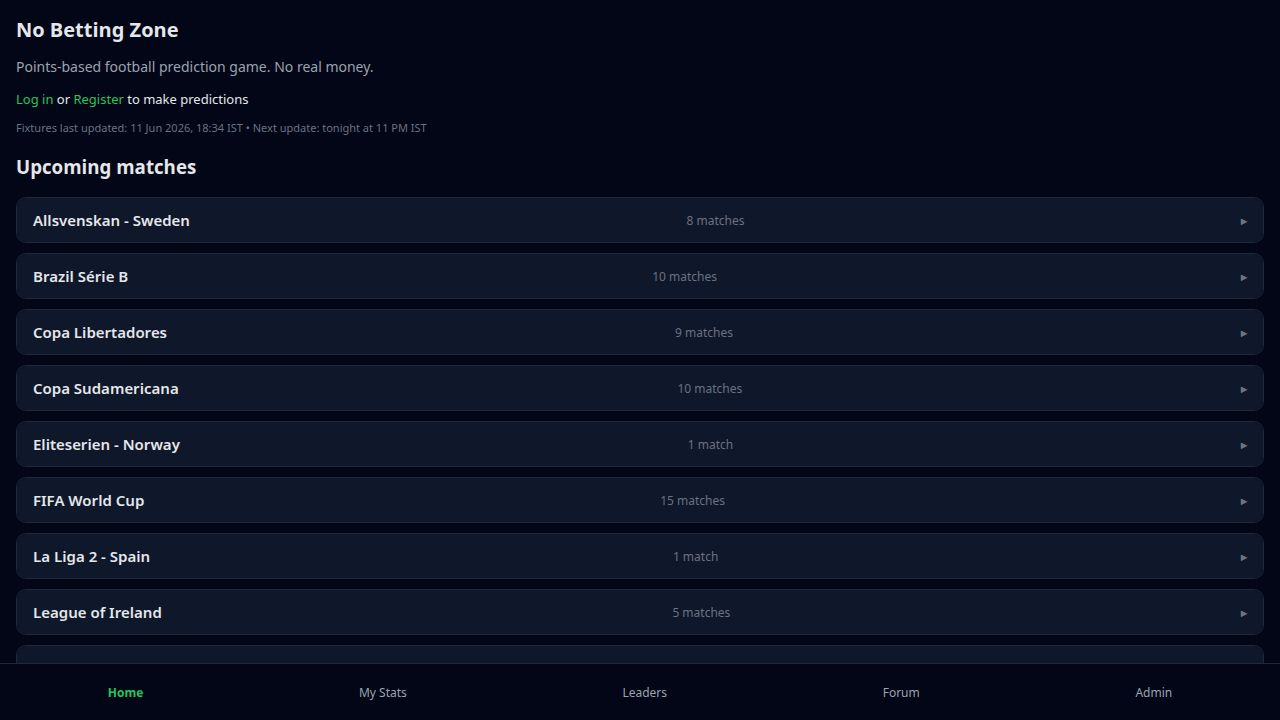
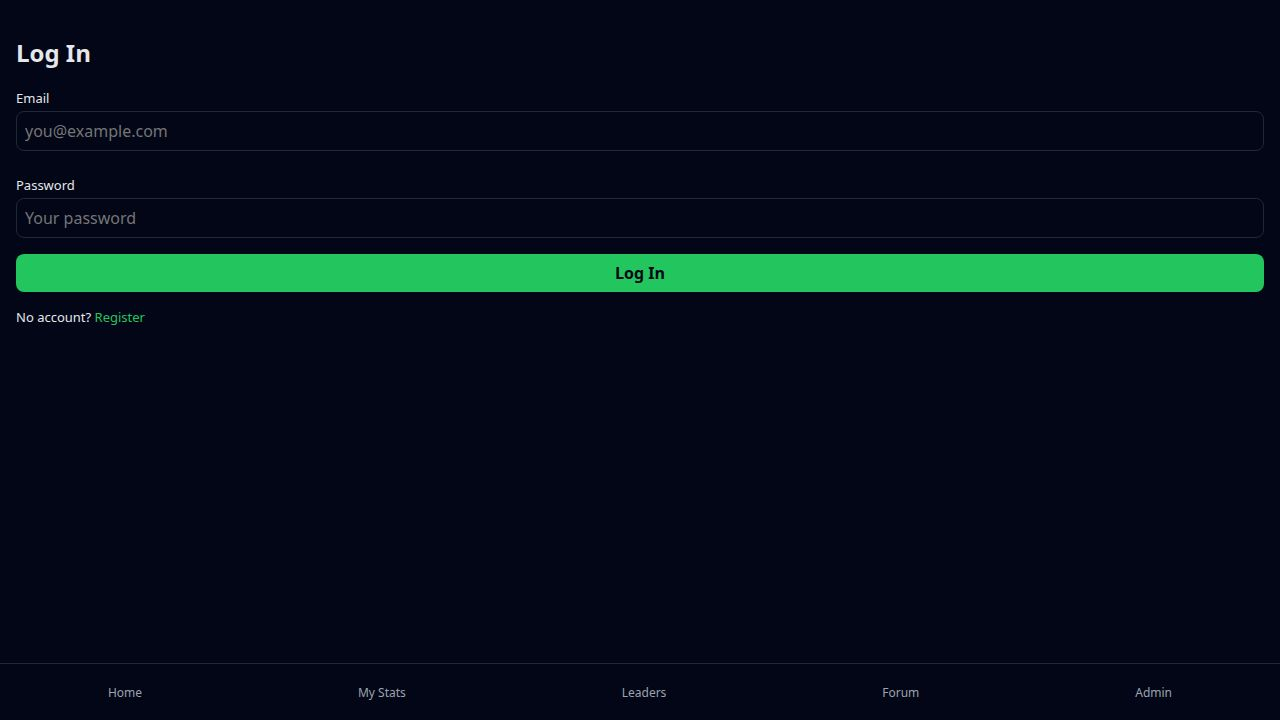
Add timestamps to forum messages for better chronological tracking
Format and display the `createdAt` timestamp for each forum message using moment.js, with a fallback for messages lacking a timestamp.

Replit-Commit-Author: Agent
Replit-Commit-Session-Id: 93179fe9-a266-4a7d-97fe-0d0eda81b8e0
Replit-Commit-Checkpoint-Type: full_checkpoint
Replit-Commit-Event-Id: 5a2194f4-2064-4584-9c92-ef802bcefd67
Replit-Commit-Screenshot-Url: https://storage.googleapis.com/screenshot-production-us-central1/6f6d87b4-7a8a-4016-9efc-762b3f0f8ae4/93179fe9-a266-4a7d-97fe-0d0eda81b8e0/LhOCwEQ
Replit-Helium-Checkpoint-Created: true

diff --git a/index.js b/index.js
@@ -1449,10 +1449,16 @@ app.get('/forum', requireAuth, async (req, res) => {
   html += `<h3 style="margin-top:16px;">Messages</h3>`;
 
   for (const m of messages.slice().reverse()) {
+    const ts = m.createdAt
+      ? moment(m.createdAt).tz(TIMEZONE).format('DD MMM, HH:mm')
+      : '';
     html += `
       <div class="card">
-        <div style="font-size:12px;color:#9ca3af;">${m.name}</div>
-        <div>${m.text}</div>
+        <div style="display:flex;justify-content:space-between;align-items:center;margin-bottom:4px;">
+          <span style="font-size:12px;font-weight:600;color:#e5e7eb;">${m.name}</span>
+          <span style="font-size:11px;color:#4b5563;">${ts}</span>
+        </div>
+        <div style="font-size:14px;">${m.text}</div>
       </div>
     `;
   }